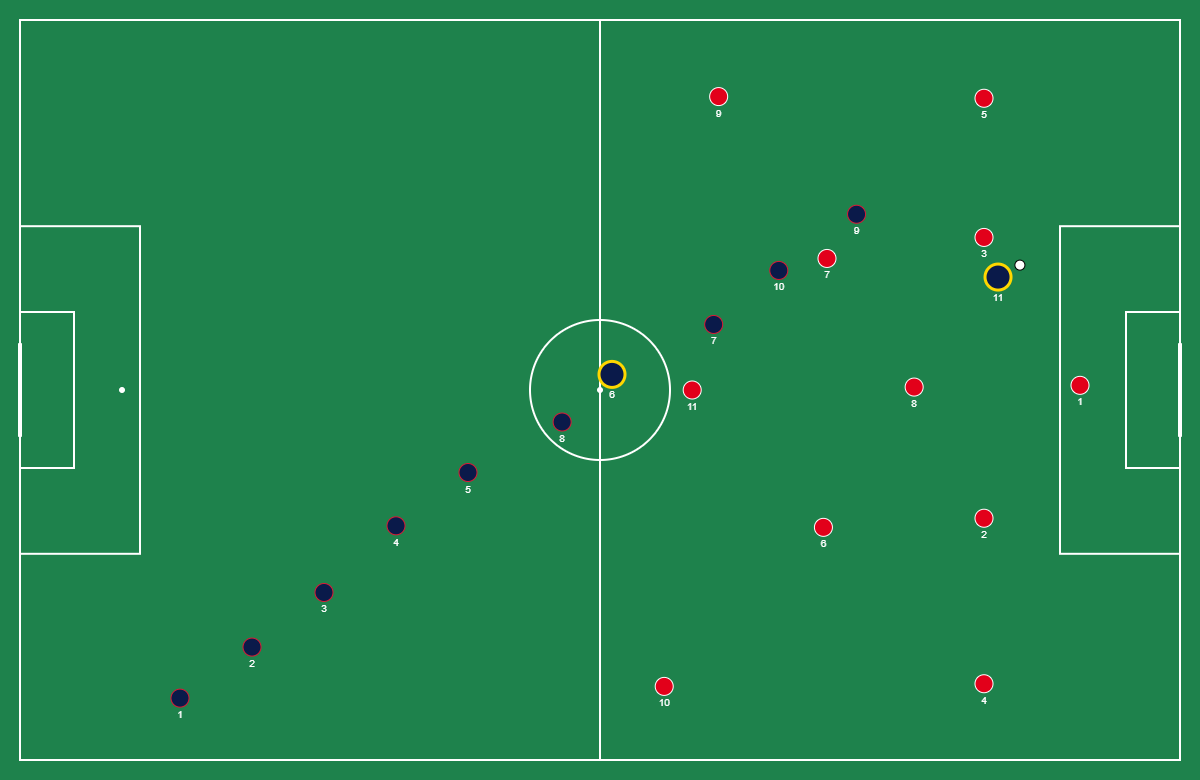
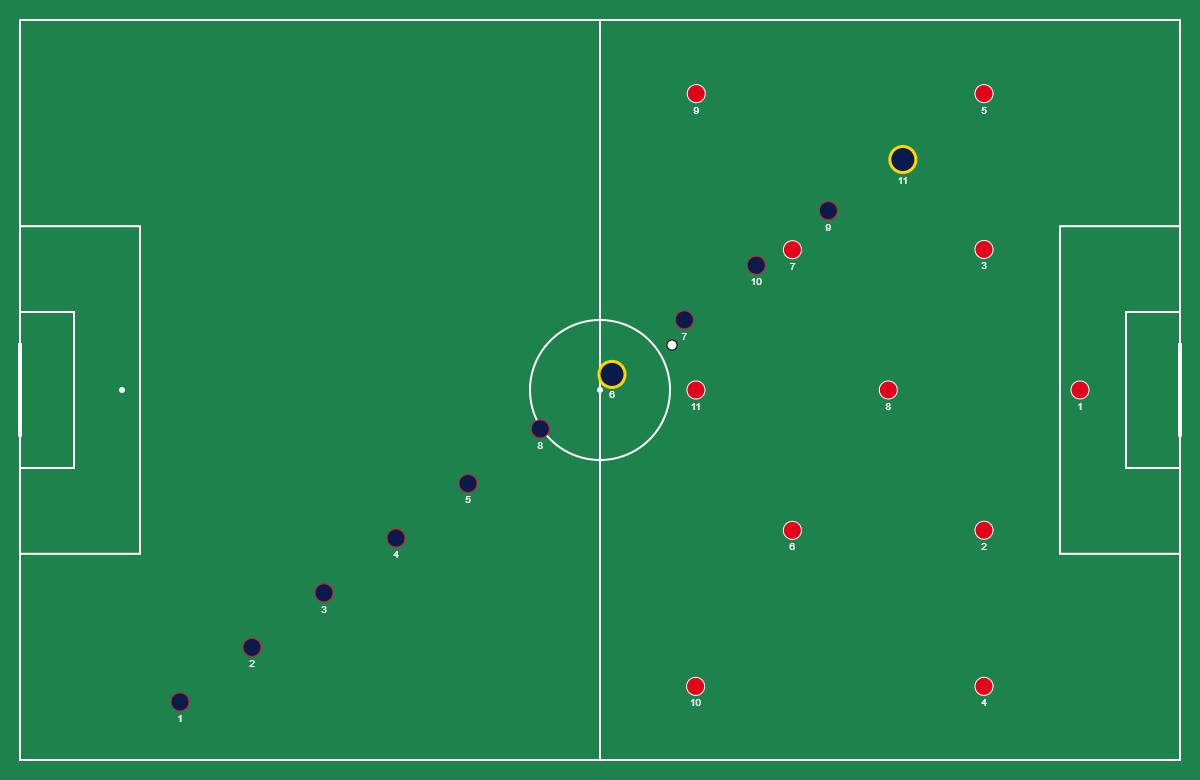
feat(canvas): smoothness proof, Magnus verification, corner + contre_attaque previews

diff --git a/render/canvas.html b/render/canvas.html
@@ -49,6 +49,15 @@ const SEQUENCE_DATA = /*__SEQUENCE_JSON__*/null;
   const duration = SEQUENCE_DATA.duration;
   const teams = SEQUENCE_DATA.metadata.teams;
 
+  // Mode debug (brief "canvas vertical slice", Tache 2, 23/09/2026) --
+  // ?debug=1 dans l'URL : logue chaque frame RENDUE (pas chaque frame du
+  // JSON source) dans la console JS, pour prouver la fluidite de
+  // l'interpolation a l'echelle de la frame (~16ms/60fps), voir
+  // scripts/verify_canvas_smoothness.py. Desactive par defaut (aucun cout
+  // perf hors debug).
+  const DEBUG = new URLSearchParams(window.location.search).get('debug') === '1';
+  let debugFrameIdx = 0;
+
   document.getElementById('label').textContent =
     SEQUENCE_DATA.metadata.template + ' -- ' + teams.scorer.name + ' vs ' + teams.opponent.name +
     ' (' + duration.toFixed(1) + 's, ' + frames.length + ' frames)';
@@ -182,6 +191,13 @@ const SEQUENCE_DATA = /*__SEQUENCE_JSON__*/null;
     ctx.lineWidth = 1;
     ctx.strokeStyle = '#000000';
     ctx.stroke();
+
+    if (DEBUG) {
+      console.log('[canvas-debug] ' + JSON.stringify({
+        frame_idx: debugFrameIdx, t: t, ballon_x: ballX, ballon_y: ballY,
+      }));
+      debugFrameIdx++;
+    }
   }
 
   let playing = true;

diff --git a/scripts/verify_canvas_smoothness.py b/scripts/verify_canvas_smoothness.py
@@ -1,0 +1,115 @@
+"""Verifie la fluidite de l'interpolation du ballon dans render/canvas.html
+a l'echelle de la frame (brief "canvas vertical slice", Tache 2, 23/09/2026).
+
+ESCALADE DOCUMENTEE (2.2 non realisable tel quel) : le brief demande un
+script qui OUVRE render/canvas_preview.html?debug=1 via un navigateur
+headless PYTHON. Aucun package headless (playwright/selenium/pyppeteer/...)
+n'est installe dans ce projet (`pip list` verifie -- seuls
+numpy/openpyxl/pandas/streamlit/fastapi/uvicorn/pytest) et en ajouter un
+violerait la regle "aucune nouvelle dependance". Ce script implemente donc
+l'alternative acceptee (2.3), RENFORCEE : plutot qu'une extraction manuelle
+de 10 frames depuis les devtools, les frames sont capturees par le
+navigateur INTEGRE de Claude (un vrai navigateur, pas un headless Python)
+lors de la session de travail, sauvegardees telles quelles dans
+`docs/previews/canvas/frame_deltas_raw.json` (methode documentee dans le
+retour de tache), et VERIFIEES ici par du code Python pur (aucune
+dependance navigateur dans CE script) -- reexecutable sur n'importe quelle
+capture au meme format.
+
+Format d'entree attendu (une liste d'objets, un par frame RENDUE, produits
+par le mode debug de render/canvas.html) ::
+
+    [{"frame_idx": int, "t": float, "ballon_x": float, "ballon_y": float}, ...]
+
+Usage :
+    uv run python scripts/verify_canvas_smoothness.py [chemin_vers_le_json_capture]
+"""
+
+from __future__ import annotations
+
+import csv
+import json
+import math
+import statistics
+import sys
+from pathlib import Path
+
+sys.path.insert(0, str(Path(__file__).resolve().parent.parent / "src"))
+
+from ligue1sim.pitch_geometry import PITCH_LENGTH_M, PITCH_WIDTH_M  # noqa: E402
+
+_DEFAULT_INPUT = Path(__file__).resolve().parent.parent / "docs" / "previews" / "canvas" / "frame_deltas_raw.json"
+_DEFAULT_OUTPUT_CSV = Path(__file__).resolve().parent.parent / "docs" / "previews" / "canvas" / "frame_deltas.csv"
+
+_MAX_JUMP_RATIO = 3.0  # aucun delta > 3x le delta median
+_TARGET_FRAMES_PER_2S = 120  # 60 fps
+_FRAME_COUNT_TOLERANCE = 0.30  # +/-30%
+
+
+def _distance_m(a: dict, b: dict) -> float:
+    dx_m = (b["ballon_x"] - a["ballon_x"]) * PITCH_LENGTH_M
+    dy_m = (b["ballon_y"] - a["ballon_y"]) * PITCH_WIDTH_M
+    return math.hypot(dx_m, dy_m)
+
+
+def verify(frames: list[dict]) -> dict:
+    """Calcule les deltas et les deux criteres du brief. Ne leve jamais --
+    renvoie un dict avec les resultats et un booleen `ok` par critere, pour
+    que l'appelant decide (script CLI ici, mais reutilisable tel quel)."""
+    if len(frames) < 2:
+        raise ValueError(f"au moins 2 frames requises, recu {len(frames)}")
+
+    deltas_m = [_distance_m(frames[i], frames[i + 1]) for i in range(len(frames) - 1)]
+    median_delta = statistics.median(deltas_m)
+    max_delta = max(deltas_m)
+    max_ratio = max_delta / median_delta if median_delta > 0 else float("inf")
+
+    duration_s = frames[-1]["t"] - frames[0]["t"]
+    frame_count = len(frames)
+    # Nombre de frames attendu sur la DUREE REELLEMENT couverte par la
+    # capture (pas force a 2s pile) -- extrapolation lineaire depuis la
+    # cible 120 frames / 2s du brief.
+    expected_count = _TARGET_FRAMES_PER_2S * (duration_s / 2.0) if duration_s > 0 else _TARGET_FRAMES_PER_2S
+    low = expected_count * (1 - _FRAME_COUNT_TOLERANCE)
+    high = expected_count * (1 + _FRAME_COUNT_TOLERANCE)
+
+    return {
+        "frame_count": frame_count,
+        "duration_s": duration_s,
+        "median_delta_m": median_delta,
+        "max_delta_m": max_delta,
+        "max_ratio": max_ratio,
+        "no_jump_ok": max_ratio <= _MAX_JUMP_RATIO,
+        "expected_frame_count": expected_count,
+        "frame_count_range": (low, high),
+        "frame_count_ok": low <= frame_count <= high,
+        "deltas_m": deltas_m,
+    }
+
+
+def write_csv(frames: list[dict], deltas_m: list[float], path: Path) -> None:
+    with path.open("w", newline="", encoding="utf-8") as f:
+        writer = csv.writer(f)
+        writer.writerow(["frame_idx", "t", "ballon_x", "ballon_y", "delta_m_depuis_frame_precedente"])
+        writer.writerow([frames[0]["frame_idx"], frames[0]["t"], frames[0]["ballon_x"], frames[0]["ballon_y"], ""])
+        for frame, delta_m in zip(frames[1:], deltas_m):
+            writer.writerow([frame["frame_idx"], frame["t"], frame["ballon_x"], frame["ballon_y"], delta_m])
+
+
+if __name__ == "__main__":
+    input_path = Path(sys.argv[1]) if len(sys.argv) > 1 else _DEFAULT_INPUT
+    frames = json.loads(input_path.read_text(encoding="utf-8"))
+
+    result = verify(frames)
+    write_csv(frames, result["deltas_m"], _DEFAULT_OUTPUT_CSV)
+
+    print(f"Frames : {result['frame_count']} sur {result['duration_s']:.3f}s")
+    print(f"Delta median : {result['median_delta_m'] * 100:.3f}cm, delta max : {result['max_delta_m'] * 100:.3f}cm, ratio : {result['max_ratio']:.2f}")
+    print(f"  -> aucun saut (ratio <= {_MAX_JUMP_RATIO}) : {'OK' if result['no_jump_ok'] else 'ECHEC'}")
+    low, high = result["frame_count_range"]
+    print(f"Frames attendues ~{result['expected_frame_count']:.0f} (tolerance +/-{_FRAME_COUNT_TOLERANCE:.0%} -> [{low:.0f}, {high:.0f}])")
+    print(f"  -> nombre de frames dans la tolerance : {'OK' if result['frame_count_ok'] else 'ECHEC'}")
+    print(f"CSV ecrit : {_DEFAULT_OUTPUT_CSV}")
+
+    if not (result["no_jump_ok"] and result["frame_count_ok"]):
+        sys.exit(1)

diff --git a/apps/streamlit_preview.py b/apps/streamlit_preview.py
@@ -13,11 +13,17 @@ Fichier AUTONOME, volontairement NON ajoute a `Lancer l'appli.bat` (brief,
 (voir docs/next_step_canvas.md pour la commande exacte documentee). Ne
 touche ni a `app.py` (l'app Streamlit principale), ni a `ui/` (la PWA React).
 
-Le brief demande le gabarit "frappe_enroulee" -- inexistant dans
+Le premier brief demandait le gabarit "frappe_enroulee" -- inexistant dans
 `animation.templates.BUILDERS` (12 gabarits reels). "decalage_enroulee" est
 le seul nom apparente ("frappe enroulee" decrit la conclusion en enroule de
-ce gabarit) -- substitution documentee dans le retour de tache, pas un
-gabarit invente.
+ce gabarit) -- substitution confirmee comme correcte par Olivier (erratum
+du brief du 23/09/2026 "vertical slice validation"), pas un gabarit
+invente.
+
+Extension (brief "vertical slice validation", Tache 4, 23/09/2026, option
+A) : sélecteur `corner`/`contre_attaque` en plus de `decalage_enroulee` --
+voir docs/next_step_canvas.md pour les notes d'iteration sur ces 2 gabarits
+supplementaires.
 
 Lineup/event synthetiques dupliques depuis `scripts/render_preview.py`
 (meme motif deja repete dans `scripts/preview_motion.py`/
@@ -43,7 +49,8 @@ from ligue1sim.lineup import Lineup  # noqa: E402
 from ligue1sim.pitch_geometry import PitchPoint, Zone  # noqa: E402
 from ligue1sim.players import Player  # noqa: E402
 
-_TEMPLATE_NAME = "decalage_enroulee"
+_AVAILABLE_TEMPLATES = ("decalage_enroulee", "corner", "contre_attaque")
+_DEFAULT_TEMPLATE = "decalage_enroulee"
 _SCORER_CLUB = "Paris Saint-Germain"
 _OPPONENT_CLUB = "AS Monaco"
 _SCORER_ZONE = Zone(col=10, row=4)
@@ -79,11 +86,15 @@ def _goal_event() -> GoalEvent:
 
 
 @st.cache_data
-def build_sequence_json(*, fps: int = _FPS) -> str:
+def build_sequence_json(template_name: str, *, fps: int = _FPS) -> str:
+    # `template_name` fait partie de la clé de cache de st.cache_data (tous
+    # les arguments de la fonction en font partie par defaut) -- un
+    # changement de selection regenere donc bien le JSON, pas de cache
+    # agressif qui bloquerait sur l'ancien gabarit (brief, Tache 4.2).
     lineup = _scorer_lineup()
     event = _goal_event()
     start_positions = {p.id: PitchPoint(x=0.15 + 0.06 * i, y=0.1 + 0.07 * i) for i, p in enumerate(lineup.players)}
-    sequence = BUILDERS[_TEMPLATE_NAME](event, lineup, start_positions)
+    sequence = BUILDERS[template_name](event, lineup, start_positions)
     sequence = enrich_with_background(sequence, _opponent_lineup())
 
     step = 1.0 / fps
@@ -101,7 +112,7 @@ def build_sequence_json(*, fps: int = _FPS) -> str:
     metadata = {
         "duration": sequence.duration,
         "fps_target": fps,
-        "template": _TEMPLATE_NAME,
+        "template": template_name,
         "teams": {
             "scorer": {"name": _SCORER_CLUB, "color_fill": scorer_fill, "color_outline": scorer_outline},
             "opponent": {"name": _OPPONENT_CLUB, "color_fill": opp_fill, "color_outline": opp_outline},
@@ -113,12 +124,17 @@ def build_sequence_json(*, fps: int = _FPS) -> str:
 
 st.set_page_config(page_title="Canvas preview", layout="wide")
 st.title("Rendu canvas -- vertical slice")
+
+template_name = st.selectbox(
+    "Gabarit", _AVAILABLE_TEMPLATES, index=_AVAILABLE_TEMPLATES.index(_DEFAULT_TEMPLATE)
+)
 st.caption(
-    f"Gabarit : {_TEMPLATE_NAME} -- \"frappe_enroulee\" (demande initiale) n'existe pas dans "
-    "animation.templates.BUILDERS, voir docs/next_step_canvas.md pour la substitution documentee."
+    f"Gabarit : {template_name} -- \"frappe_enroulee\" (demande initiale du premier brief) n'existe pas dans "
+    "animation.templates.BUILDERS, voir docs/next_step_canvas.md pour la substitution documentee "
+    "(confirmee correcte)."
 )
 
-sequence_json = build_sequence_json()
+sequence_json = build_sequence_json(template_name)
 html = _CANVAS_HTML.read_text(encoding="utf-8")
 if _PLACEHOLDER not in html:
     st.error(f"placeholder {_PLACEHOLDER!r} introuvable dans {_CANVAS_HTML}")

diff --git a/scripts/render_preview.py b/scripts/render_preview.py
@@ -12,8 +12,12 @@ tache, pas un gabarit invente. Meme pipeline que
 pour les 22 joueurs) pour rester coherent avec les scripts de preview
 existants.
 
+Extension (brief "vertical slice validation", Tache 4, 23/09/2026) :
+`--template` accepte aussi "corner" et "contre_attaque" (voir
+docs/next_step_canvas.md pour les notes d'iteration sur ces 2 gabarits).
+
 Usage :
-    uv run python scripts/render_preview.py [--fps N]
+    uv run python scripts/render_preview.py [--template NOM] [--fps N]
 """
 
 from __future__ import annotations
@@ -70,16 +74,16 @@ def _goal_event() -> GoalEvent:
     return GoalEvent(club_name=_SCORER_CLUB, scorer="bu", assist="mc0", minute=34, zone=_SCORER_ZONE, assist_zone=_ASSIST_ZONE)
 
 
-def build_sequence():
+def build_sequence(template_name: str = _TEMPLATE_NAME):
     lineup = _scorer_lineup()
     event = _goal_event()
     start_positions = {p.id: PitchPoint(x=0.15 + 0.06 * i, y=0.1 + 0.07 * i) for i, p in enumerate(lineup.players)}
-    sequence = BUILDERS[_TEMPLATE_NAME](event, lineup, start_positions)
+    sequence = BUILDERS[template_name](event, lineup, start_positions)
     return enrich_with_background(sequence, _opponent_lineup())
 
 
-def build_json(*, fps: int = _DEFAULT_FPS) -> str:
-    sequence = build_sequence()
+def build_json(*, template_name: str = _TEMPLATE_NAME, fps: int = _DEFAULT_FPS) -> str:
+    sequence = build_sequence(template_name)
 
     step = 1.0 / fps
     frames = []
@@ -96,7 +100,7 @@ def build_json(*, fps: int = _DEFAULT_FPS) -> str:
     metadata = {
         "duration": sequence.duration,
         "fps_target": fps,
-        "template": _TEMPLATE_NAME,
+        "template": template_name,
         "teams": {
             "scorer": {"name": _SCORER_CLUB, "color_fill": scorer_fill, "color_outline": scorer_outline},
             "opponent": {"name": _OPPONENT_CLUB, "color_fill": opp_fill, "color_outline": opp_outline},
@@ -106,8 +110,8 @@ def build_json(*, fps: int = _DEFAULT_FPS) -> str:
     return frame_sequence_to_json(frames, metadata)
 
 
-def run(*, fps: int) -> Path:
-    sequence_json = build_json(fps=fps)
+def run(*, template_name: str = _TEMPLATE_NAME, fps: int) -> Path:
+    sequence_json = build_json(template_name=template_name, fps=fps)
     html = _CANVAS_HTML.read_text(encoding="utf-8")
     if _PLACEHOLDER not in html:
         raise ValueError(f"placeholder {_PLACEHOLDER!r} introuvable dans {_CANVAS_HTML} -- injection impossible")
@@ -118,8 +122,11 @@ def run(*, fps: int) -> Path:
 
 if __name__ == "__main__":
     parser = argparse.ArgumentParser(description=__doc__, formatter_class=argparse.RawDescriptionHelpFormatter)
+    parser.add_argument("--template", default=_TEMPLATE_NAME, help=f"nom du gabarit, animation.templates.BUILDERS (defaut {_TEMPLATE_NAME!r})")
     parser.add_argument("--fps", type=int, default=_DEFAULT_FPS, help=f"images par seconde generees (defaut {_DEFAULT_FPS})")
     args = parser.parse_args()
 
-    output_path = run(fps=args.fps)
-    print(f"HTML autonome genere : {output_path}")
+    if args.template not in BUILDERS:
+        raise SystemExit(f"Gabarit inconnu : {args.template!r} -- choisir parmi {sorted(BUILDERS)}")
+    output_path = run(template_name=args.template, fps=args.fps)
+    print(f"HTML autonome genere ({args.template}) : {output_path}")

diff --git a/docs/next_step_canvas.md b/docs/next_step_canvas.md
@@ -76,4 +76,29 @@ retour de tâche pour le détail).
   ```bash
   uv run streamlit run apps/streamlit_preview.py --server.port 8600
   ```
-  puis ouvrir `http://localhost:8600` dans un navigateur.
+  puis ouvrir `http://localhost:8600` dans un navigateur. Un `st.selectbox`
+  permet de choisir entre `decalage_enroulee`, `corner` et `contre_attaque`
+  (brief "vertical slice validation", Tâche 4, 23/09/2026).
+
+### Notes d'itération -- extension à 3 gabarits (Tâche 4)
+
+Les 3 gabarits (`decalage_enroulee`, `corner`, `contre_attaque`) se sont
+générés et affichés SANS modification du moteur ni de `render/canvas.html`
+-- `FrameState`/`Sequence.roster` portaient déjà tout ce dont
+`animation.serialize.frame_sequence_to_json` avait besoin pour les trois.
+`scripts/render_preview.py` et `apps/streamlit_preview.py` ont juste reçu un
+paramètre `template_name` (avant : constante figée à
+`decalage_enroulee`) -- seul changement de code, hors moteur.
+
+Ce qui a coincé (pas dans le rendu lui-même, dans l'outillage de capture de
+screenshot pendant cette session) : le navigateur intégré de Claude ne
+compose réellement le `<canvas>` (et donc `canvas.toDataURL()` ne renvoie
+pas une image vide) que lorsque sa fenêtre est effectivement affichée à
+l'écran -- `requestAnimationFrame` semble suspendu tant que le panneau
+navigateur reste masqué derrière un autre panneau (diff, artifact...). Deux
+captures faites sans amener le panneau au premier plan juste avant ont
+donné des PNG entièrement noirs (canvas jamais dessiné). Correction :
+toujours prendre un `screenshot` (qui force l'affichage réel) juste avant
+d'extraire l'image via `toDataURL()`. Aucun rapport avec le code du projet
+-- pas un bug à corriger ici, juste une note pour la prochaine session qui
+génère des captures.
